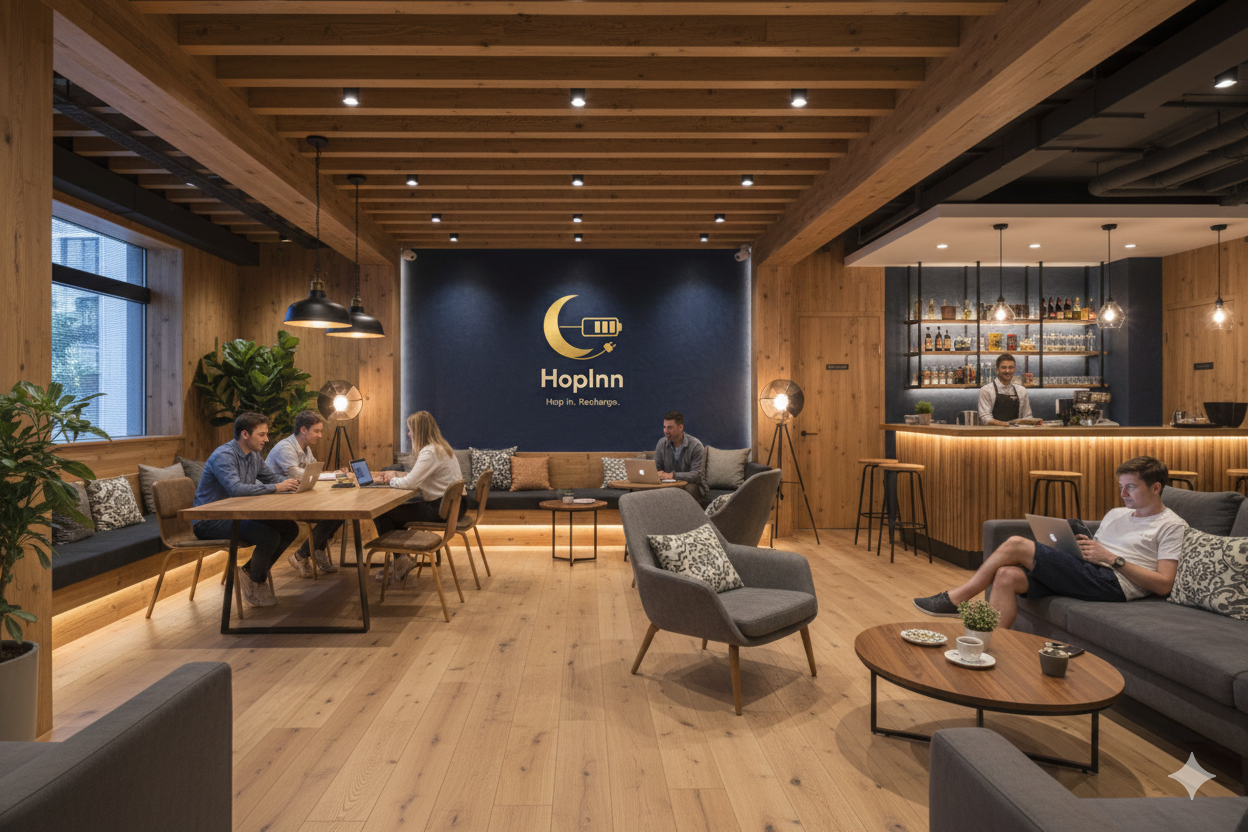
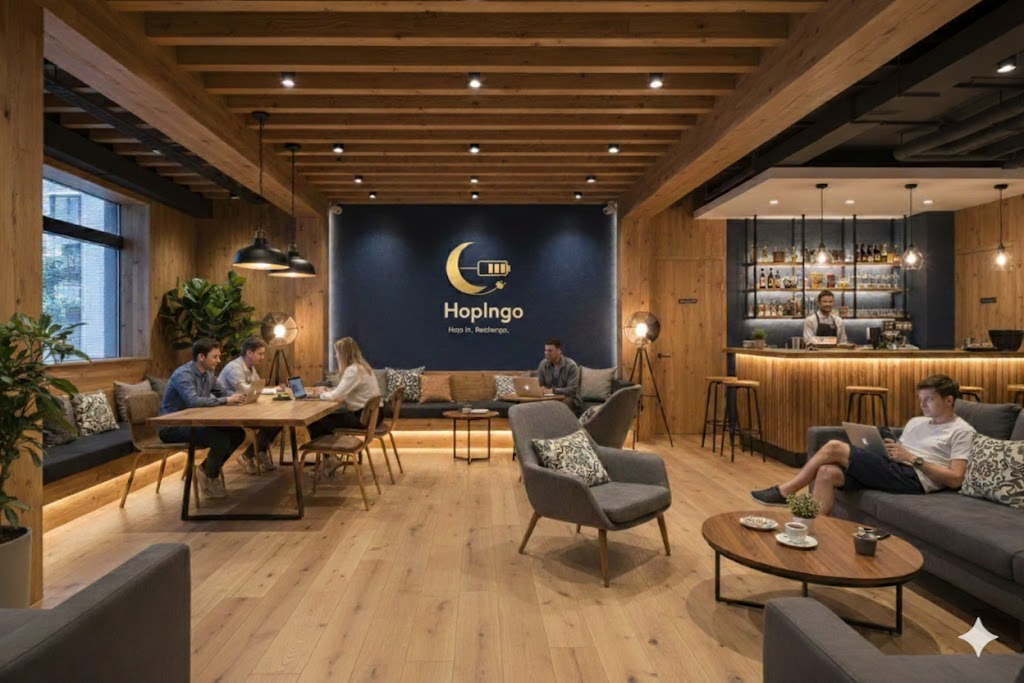
hopingo

diff --git a/index.html b/index.html
@@ -2,7 +2,7 @@
 <html lang="en">
 <head>
     <meta charset="UTF-8">
-    <title>Hop INN</title>
+    <title>Hop Ingo</title>
     <link rel="stylesheet" href="css/style.css">
     <link href="https://fonts.googleapis.com/css2?family=Inter:wght@300;400;600;700&display=swap" rel="stylesheet">
 </head>
@@ -15,7 +15,7 @@
         <div class="sim-icon">ℹ</div>
         <h2>University Simulation Project</h2>
         <p>
-            Hop INN is part of a university hotel management simulation.
+            Hop Ingo is part of a university hotel management simulation.
             No real bookings are processed and no payments are taken.
         </p>
         <button class="confirm-btn" onclick="closeModal()">Continue to Website</button>
@@ -52,7 +52,7 @@
 <section class="hero">
     <div class="overlay"></div>
     <div class="hero-content center-hero">
-        <h1>Hop INN</h1>
+        <h1>Hop Ingo</h1>
 
         <p class="subtext">
             A smart capsule hotel near Ingolstadt’s main train station.
@@ -89,8 +89,8 @@
                     <li>Ideal for short stays or business trips</li>
             </ul>
             <p class="price">
-            From €39 / night<br>
-            <span class="hourly">€10 per hour</span>
+            From €30 / night<br>
+            <span class="hourly">5€ for 2 hours + 3€ per additional hour</span>
             </p>
             <button onclick="openBooking()">Book Now</button>
         </div>
@@ -108,8 +108,8 @@
                     <li>Perfect for couples or shared stays</li>
             </ul>
             <p class="price">
-            From €59 / night<br>
-            <span class="hourly">€13 per hour</span>
+            From €50 / night<br>
+            <span class="hourly">10€ for 2 hours + 6€ per additional hour</span>
             </p>
             <button onclick="openBooking()">Book Now</button>
         </div>
@@ -138,7 +138,7 @@
         <h2>Our Inspiration</h2>
 
         <p>
-            Hop INN is inspired by the efficiency of Japanese capsule hotels
+            Hop Ingo is inspired by the efficiency of Japanese capsule hotels
             and the dynamic business atmosphere of Ingolstadt.
         </p>
 
@@ -156,7 +156,7 @@
         </p>
 
         <p>
-            Hop INN combines all: privacy and community, 
+            Hop Ingo combines all: privacy and community, 
             comfort and simplicity & 
             technology and hospitality.
         </p>
@@ -187,7 +187,7 @@
 <section id="impressum" class="impressum">
     <h2>Impressum</h2>
     <p>
-        Hopp INN Ingolstadt<br>
+        Hopp Ingo Ingolstadt<br>
         University Simulation Project<br>
         Address: Münchnerstraße 1234, 85049 Ingolstadt, Germany<br>
         Email: hopinningolstadt@gmail.com<br>
@@ -197,7 +197,7 @@
 </section>
 
 <footer>
-    <p>© 2026 Hopp INN Ingolstadt | University Simulation Project</p>
+    <p>© 2026 Hopp Ingo Ingolstadt | University Simulation Project</p>
 </footer>
 
 <script src="js/script.js"></script>
